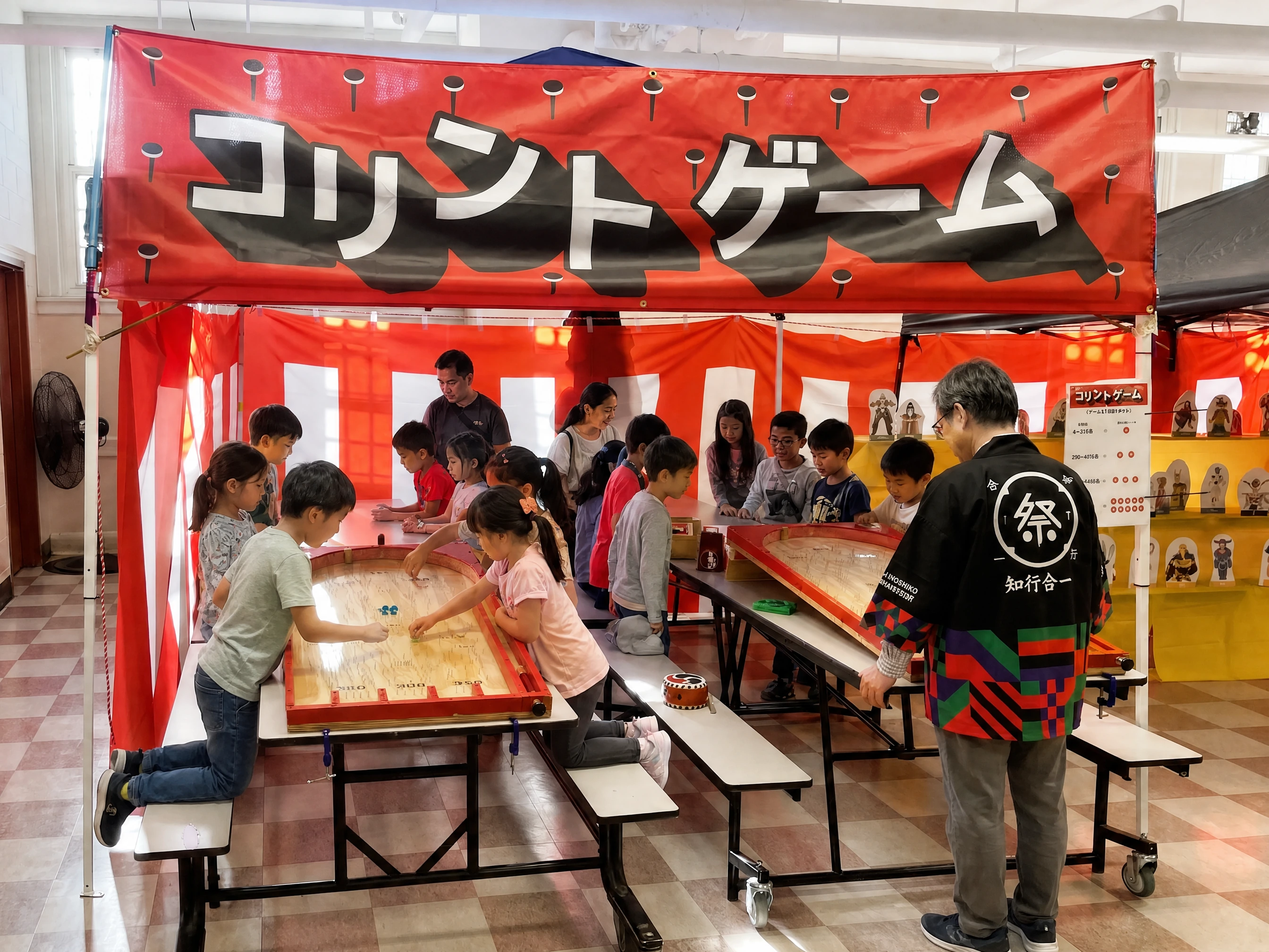
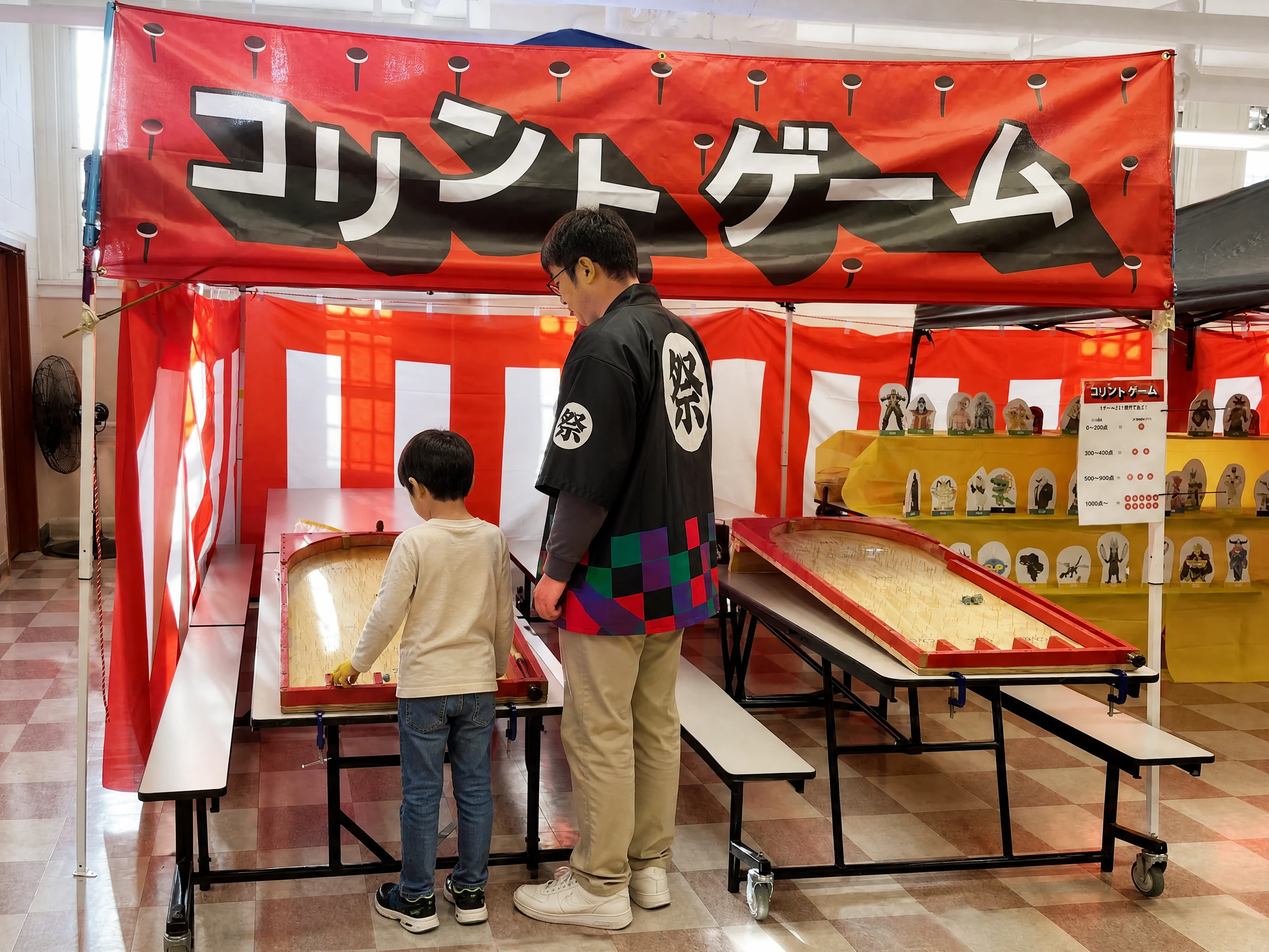
Correct Korinto photo to show one standing child and observing volunteer

diff --git a/src/case-studies/festival-design.html b/src/case-studies/festival-design.html
@@ -131,7 +131,7 @@
     <img src="/assets/festival-design/Aki24_Korinto.png" alt="Noren: Korinto Game (コリントゲーム) in black letters with pins, on red" loading="lazy" width="2500" height="686" style="grid-column: 1 / -1;">
     <img src="/assets/festival-design/editorial/korinto-team.webp" alt="The Korinto Game volunteers in festival happi, lined up under the red noren" loading="lazy" width="2688" height="2016">
     <img src="/assets/festival-design/editorial/korinto-board.webp" alt="Close-up of the wooden Korinto board: a field of nails and numbered pockets" loading="lazy" width="2688" height="2016">
-    <img src="/assets/festival-design/editorial/korinto-photo-1600.webp" alt="The Korinto Game booth: two long wooden pinball tables under the red noren" loading="lazy" width="2688" height="2016">
+    <img src="/assets/festival-design/editorial/korinto-photo-1600.webp" alt="A single child standing on the floor, back to the camera, playing Korinto while an adult volunteer watches beside them" loading="lazy" width="2688" height="2016">
     <img src="/assets/festival-design/editorial/korinto-play.webp" alt="Players leaning over the red-framed Korinto boards while a volunteer explains the scoring" loading="lazy" width="3072" height="2048">
   </figure>
 </section>

diff --git a/scripts/edit-festival-photos.py b/scripts/edit-festival-photos.py
@@ -47,7 +47,7 @@ SPECS = {
  'flying-chicken-photo-1600': ('Preserve the yellow target shelves, silhouettes, red/white backdrop and actual Flying Chicken banner. Add a small group of children naturally trying and watching the throwing game, with an adult volunteer beside the shelf, without hiding the targets.', 'Aki24_FlyingChiken.png'),
  'korinto-team': ('Preserve the staff group portrait, same number and approximate positions of people, including the child. All adult staff wear the specified branded happi over casual clothes. Children remain in casual clothes. Replace every face. Keep the red Korinto banner intact, with a little lively festival activity behind, not a new crowd in front.', 'Aki24_Korinto.png'),
  'korinto-board': ('Foreground product/mechanics detail: preserve the exact wooden nail field, existing hand-drawn numbers, scoring pockets and curved board. Do not change the nail layout or invent game hardware. Background volunteers wear happi and naturally explain to one or two children, staying out of the board foreground.', None),
- 'korinto-photo-1600': ('Keep the original two red-framed wooden pinball boards, supports and benches. Show children leaning over and playing those boards, with a volunteer explaining the score beside them; a small queue behind. Do not substitute modern pinball machines. Preserve the red banner.', 'Aki24_Korinto.png'),
+ 'korinto-photo-1600': ('Keep the original two red-framed wooden pinball boards, supports and cafeteria tables. Show exactly ONE child in casual clothes, back toward the camera, standing with BOTH feet on the checkerboard FLOOR, playing at the near-end ball-launch control of one board. Exactly one adult in branded happi calmly watches from the side. The other board is empty. Nobody sits, stands, kneels or climbs on tables or benches; move a bench aside only if needed for natural floor access. No crowd, no simultaneous players around a board, no reaching across its nail field. Preserve the red banner and actual game mechanics.', 'Aki24_Korinto.png'),
  'korinto-play': ('Keep original wooden red-framed boards, scoring geometry and visible hand positions. The children and teens naturally play; booth adults assist in branded happi. Add only a few watching children farther back if space allows.', 'Aki24_Korinto.png'),
  'guruguru-team': ('Preserve the group portrait and two eye-shaped red spinning targets on their stands, original flag and red/white backdrop. Replace all faces. Adult booth staff wear the branded happi; children wear ordinary casual clothes. Do not add additional people in front.', 'Aki24_Guruguru_H.png'),
  'guruguru-throw': ('Keep the player mid-throw, ball, two original eye-shaped spinning discs, stand heights and booth position. Volunteer wears branded happi over casual clothes. A couple of children wait behind without entering the throwing lane.', 'Aki24_Guruguru_H.png'),

diff --git a/scripts/prepare-festival-photo-assets.py b/scripts/prepare-festival-photo-assets.py
@@ -23,7 +23,11 @@ assert len(photos) == len(set(photos)) == 26, 'Expected exactly 26 distinct phot
 no_faces = {'yurayura-photo-1600', 'tsurimaster-fish', 'katanuki-play-1600', 'katanuki-1600'}
 selected = {}
 for stem in photos:
-    if stem not in no_faces:
+    corrected = OUT / (stem + '-corrected.png')
+    if corrected.exists():
+        # Reviewed corrections include fictional people or their own privacy pass.
+        image = corrected
+    elif stem not in no_faces:
         image = OUT / (stem + '-private.png')
         assert image.exists(), 'Identity replacement missing: ' + stem
     else:

diff --git a/docs/festival-photo-edit/README.md b/docs/festival-photo-edit/README.md
@@ -13,3 +13,5 @@ Local review artifacts are in `output/festival-photo-edit/` (Git-ignored): `revi
 Validation: Astro production build passed; Chromium loaded all 26 edited photographs; no page errors or horizontal overflow at a 390-pixel mobile viewport. Desktop and mobile screenshots are in the review folder. All 26 original images match Git HEAD byte for byte.
 
 During reference discovery, one local happi quotation PDF was mistakenly used as a garment reference and submitted to KIE before its contents were validated. That request and its output were excluded from all deliverables. The uploaded file's deletion on the provider side has not been verified. A failure-memory entry records the correction: inspect and validate reference contents before any upload.
+
+Correction after publication: `korinto-photo-1600` was regenerated from the original empty booth, using `korinto-play` as a gameplay/style reference. It now shows exactly one child with their back toward the camera, both feet on the floor, and one adult volunteer watching. The second board remains empty; no people sit, kneel or climb on cafeteria furniture. The selected correction uses GPT Image 2 through KIE and creates fictional participants.
